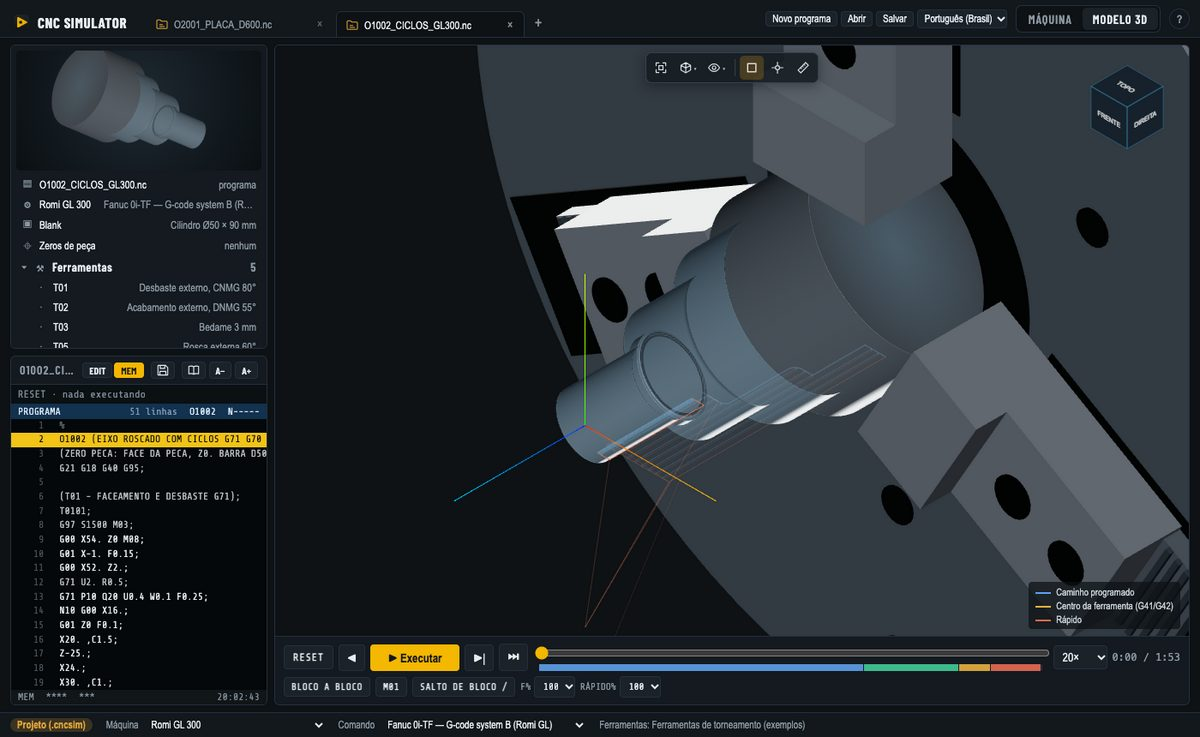
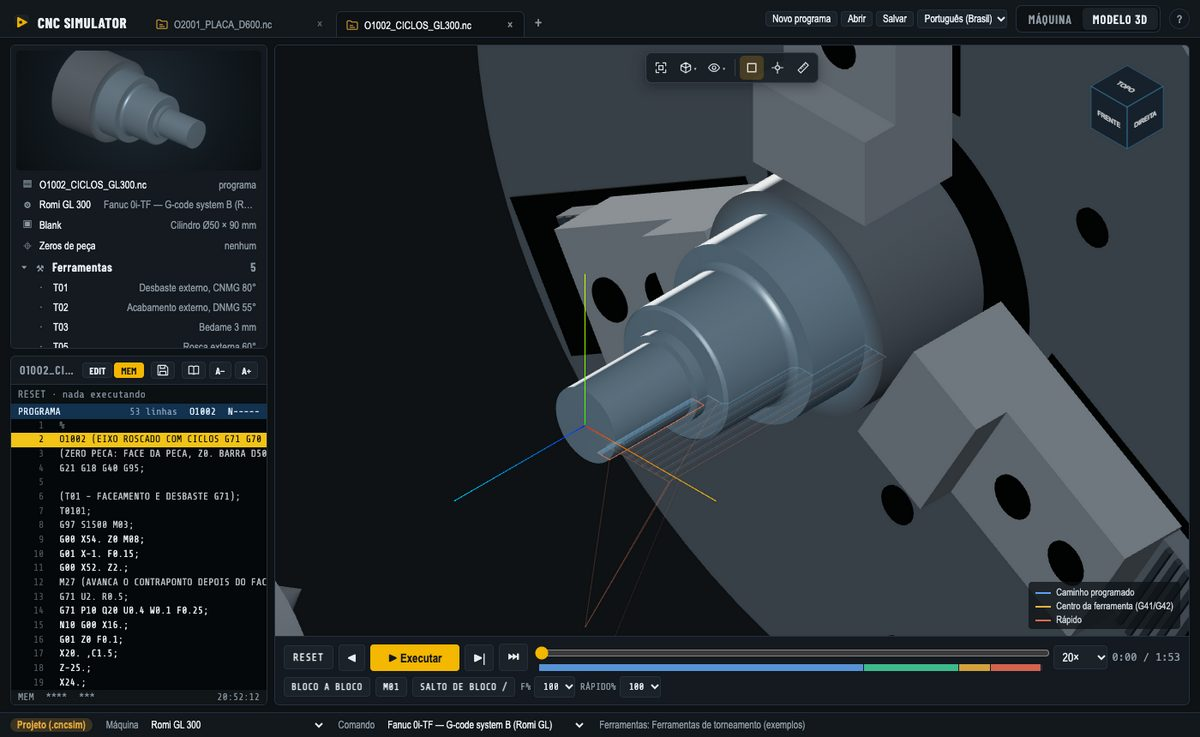
docs: tailstock and redrawn tools; new demo and screenshots

diff --git a/README.md b/README.md
@@ -49,11 +49,12 @@ Installers for every version are on the **[Releases page](https://github.com/ism
 - **Lathe canned cycles:** G71/G72 roughing, G73 pattern repeating and G70 finishing from the shape between P and Q; G90/G94/G92 (system A) and G77/G79/G78 (system B) single cycles; G76 multiple threading and G32/G33 thread cutting at the lead per revolution. The stock is turned pass by pass.
 - **Automatic chamfer and corner R:** `,C` and `,R` at any angle, with the tangent arc followed by cutter compensation, and the control's alarms when they cannot be made. Lathes can also take `C`/`R` without comma (control option `cornerWithoutComma`).
 - **Projects (`.cncsim`):** keep the program with its machine, control, tools, stock and work offsets, to reopen or send the whole job.
-- **Tools in 3D:** each tool is drawn from its type and lengths with its holder (BT40 tapers, ER collets, live tool holders) and a faded spindle nose on machining centers. Turning tools show their ISO insert, external or internal, right or left hand.
+- **Tools in 3D:** each tool is drawn from its type and lengths with its holder and a faded spindle nose on machining centers. Taper holders show the flange V-groove, the 7:24 taper (BT, CAT, SK; short HSK taper) with its pull stud, and the ER collet nut; end mills and drills show their flute helices, face mills their inserts. Turning tools show their ISO insert (WNMG trigon, laydown thread insert with its 60° point square to the part) with the clamp screw on a square shank holder, a boring bar for internal tools, or a grooving blade.
 - **Machining view:** the stock changes color and shape where the tool cuts: a heightfield on blocks (flat and ball end mills) and the turned profile on bars. Holes from the drilling cycles are drawn round, with a straight wall, and the surface follows the edges of contours and pockets. Rapids and live tooling on lathes do not cut in this view yet.
 - **Chuck, table and vise:** lathes show a hydraulic three-jaw chuck (body, slots, stepped hard jaws) and machining centers a T-slot table with a vise holding the stock, both sized from the machine file. The table sits where G54 puts the part on the machine, or right under the stock without work offsets. **Chuck** / **Table and vise** in the view toolbar hides them.
 - **Possible collisions:** when a holder goes into the stock (the tool sticks out too little for the depth), the block is listed and the holder turns red. On lathes, a tool that reaches the jaws or the chuck body is listed and the jaws turn red.
 - **Stock tools:** fit the stock to what the program cuts with one click, and put the work zero on a corner or the center of the block.
+- **Tailstock:** lathes with `tailstock` in the machine file show a live center, quill and casting opposite the chuck. On the Romi GL, **M27** brings it against the part and **M26**/**M31** back it off (manual, section 11.3.4); facing to the axis or backing off along it while the center is there is listed as a collision.
 - **Lathe machine view:** the chuck and the part turn in C while the tool stays in X/Z, as on the machine; the chuck spins when turning.
 - **Tools:** create and edit tools (mount, side, hand, insert; helix and insert drawings in the editor), save them as libraries and reuse them in any project.
 - **Stock:** bar or block, size, position and material color.
@@ -307,6 +308,7 @@ Three separate files you can mix: the same machine with another control, or one 
 }
 ```
 - **`chuck` (lathes):** body diameter and depth, number of jaws, jaw radial length, width and gripped length, spindle bore. It is drawn and used for the chuck collision check.
+- **`tailstock` (lathes):** `{ "quillDiameter": 100, "retract": 80 }`, the quill diameter and how far the center backs off when retracted.
 - **`table` (machining centers):** `{ "length": 840, "width": 500, "slots": 5, "slotWidth": 18, "slotPitch": 80, "top": -560, "center": { "X": 300, "Y": 265 } }`. `top` and `center` are the machine Z of the table face and the machine X/Y over its middle, in the frame of the work offsets. Without them, the table goes under the stock; without `table`, it is sized from the travels.
 
 **Control:** the "post-processor". Inspired by FreeCAD posts and Fusion `.cps` files. Every G or M code maps to a **function** the interpreter knows (`rapid`, `polar-on`, `cutter-comp-left`, `c-axis-on`, `brake-on`…), so a new control is just a new JSON file.

diff --git a/README.pt-BR.md b/README.pt-BR.md
@@ -49,11 +49,12 @@ Os instaladores de cada versão estão na **[página de Releases](https://github
 - **Ciclos de torno:** desbaste G71/G72, repetição de perfil G73 e acabamento G70 a partir do perfil entre P e Q; ciclos simples G90/G94/G92 (sistema A) e G77/G79/G78 (sistema B); rosca G76 em várias passadas e G32/G33 com avanço pelo passo. A barra é usinada passe a passe.
 - **Chanfro e raio de canto automáticos:** `,C` e `,R` em qualquer ângulo, com o arco tangente seguido pela compensação de raio, e os alarmes do comando quando não dá para fazer. No torno também aceita `C`/`R` sem vírgula (opção `cornerWithoutComma` do comando).
 - **Projetos (`.cncsim`):** guardam o programa com máquina, comando, ferramentas, blank e zeros, para reabrir ou enviar o trabalho inteiro.
-- **Ferramentas em 3D:** cada ferramenta é desenhada pelo tipo e pelas medidas, com o suporte (cones BT40, pinças ER, suportes acionados) e o nariz do fuso em transparência no centro de usinagem. As de tornear mostram o inserto ISO, externas ou internas, direita ou esquerda.
+- **Ferramentas em 3D:** cada ferramenta é desenhada pelo tipo e pelas medidas, com o suporte e o nariz do fuso em transparência no centro de usinagem. Os cones mostram o rasgo em V do flange, o cone 7:24 (BT, CAT, SK; cone curto HSK) com o tirante e a porca da pinça ER; fresas e brocas mostram a hélice dos canais, e o cabeçote fresador os insertos. As ferramentas de tornear mostram o inserto ISO (trigon WNMG, pastilha de rosca deitada com a ponta de 60° de frente para a peça) com o parafuso de fixação no suporte de haste quadrada, a barra de mandrilar nas internas, ou a lâmina do bedame.
 - **Visão de usinagem:** o blank muda de cor e de forma onde a ferramenta corta: mapa de alturas no bloco (fresas reta e esférica) e o perfil torneado na barra. Os furos dos ciclos de furação saem redondos, com parede reta, e a superfície acompanha as bordas de contornos e bolsões. Rápidos e ferramenta acionada no torno ainda não cortam nesta visão.
 - **Placa, mesa e morsa:** o torno mostra uma placa hidráulica de três castanhas (corpo, ranhuras, castanhas duras escalonadas) e o centro de usinagem uma mesa com ranhuras T e a morsa prendendo o blank, os dois com as medidas do arquivo da máquina. A mesa fica onde o G54 põe a peça na máquina, ou logo abaixo do blank sem zeros de peça. **Placa** / **Mesa e morsa** na barra de vistas esconde.
 - **Possíveis colisões:** quando o suporte entra no blank (a ferramenta está pouco para fora para a profundidade), o bloco aparece nas mensagens e o suporte fica vermelho. No torno, uma ferramenta que chega nas castanhas ou no corpo da placa aparece nas mensagens e as castanhas ficam vermelhas.
 - **Blank:** ajustar ao que o programa corta com um clique, e escolher se o zero peça fica num canto ou no centro do bloco.
+- **Contraponta:** tornos com `tailstock` no arquivo da máquina mostram centro rotativo, mangote e corpo do lado oposto à placa. Na Romi GL, **M27** encosta o contraponto na peça e **M26**/**M31** recuam (manual, seção 11.3.4); facear até o centro ou sair pelo eixo com ele encostado aparece como colisão.
 - **Visão da máquina no torno:** a placa e a peça giram em C e a ferramenta fica em X/Z, como na máquina; a placa gira quando está torneando.
 - **Ferramentas:** criar e editar ferramentas (montagem, lado, mão, inserto; hélice e inserto desenhados no editor), salvar como biblioteca e reutilizar em qualquer projeto.
 - **Blank:** barra ou bloco, medidas, posição e cor do material.
